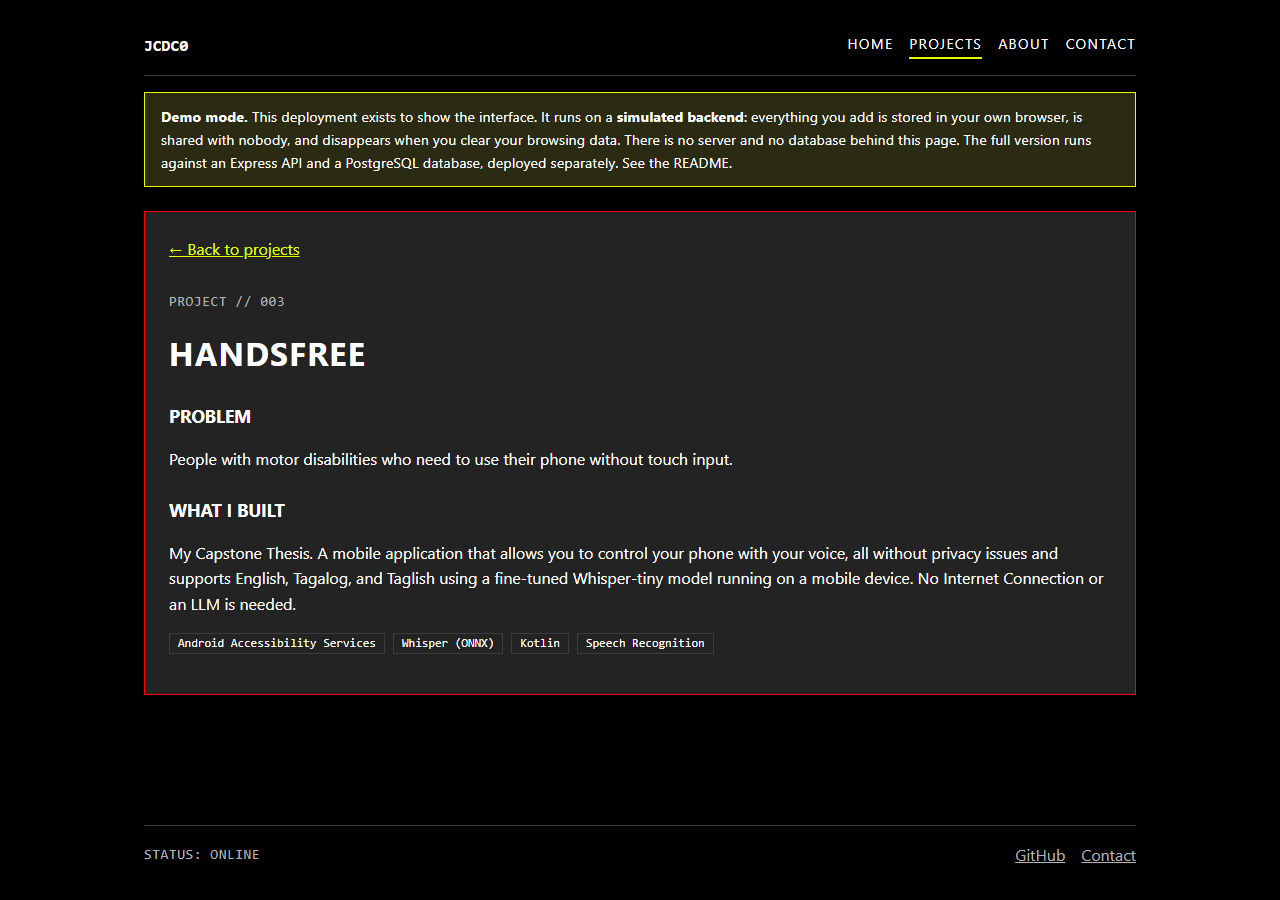
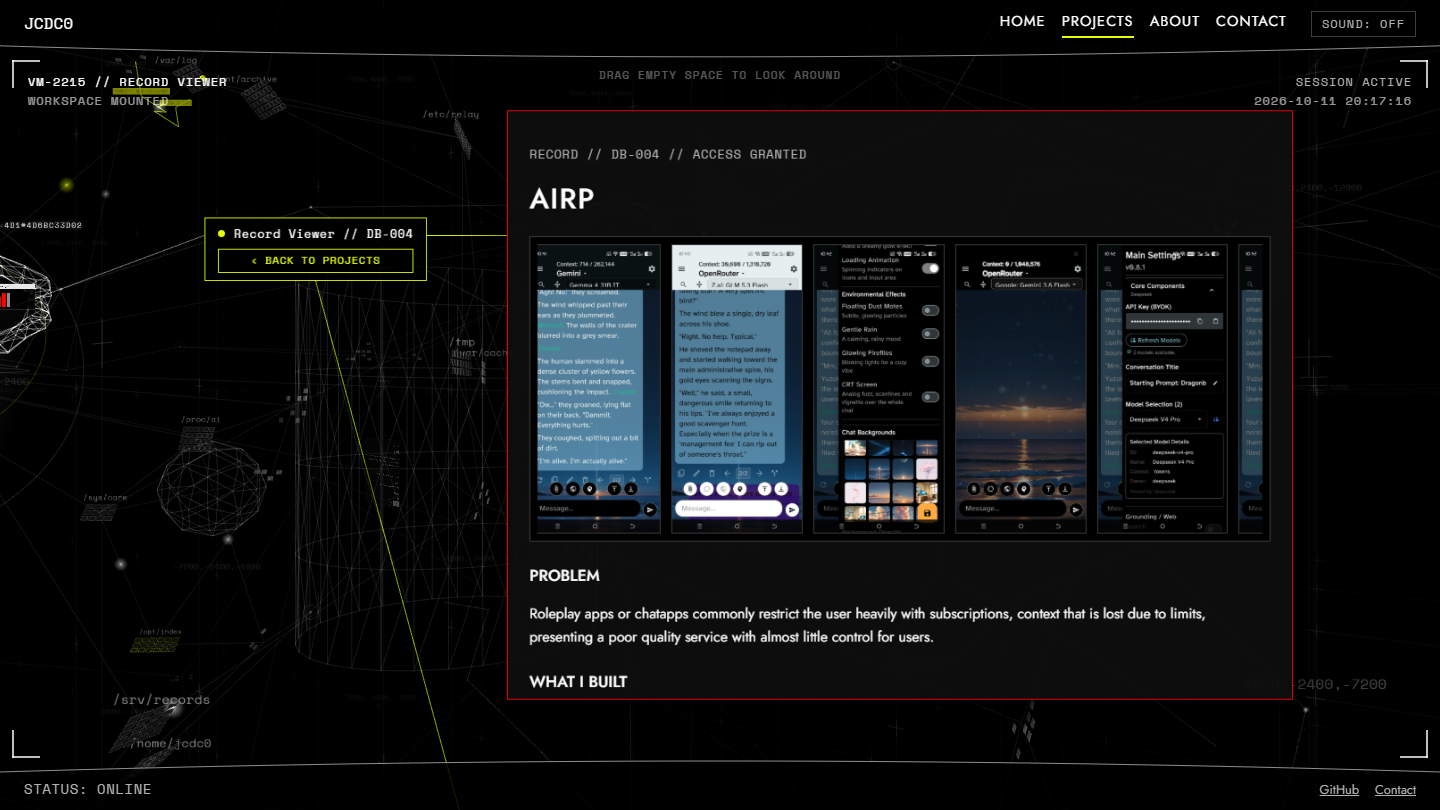
Document the 3D world, galleries, music and proposal

diff --git a/README.md b/README.md
@@ -9,22 +9,26 @@ A personal portfolio for a computer science student, styled after the surveillan
 
 > **Two addresses.** The GitHub Pages site runs in demo mode: its backend is simulated in your browser and nothing is saved to a database, so anyone can open it. The Render address is the real app, where one Express server serves the site and the API and the contact form writes to PostgreSQL. Because it writes to a database, it is behind an HTTP Basic Auth login; the login is shared privately with my instructor. The free host sleeps when idle, so the first load can take up to a minute. See [Demo mode](#demo-mode).
 
-![The projects panel](docs/assets/projects.png)
+![The project records in the 3D world](docs/assets/projects.png)
 
 ## Features and usage
+
+On a computer, the whole site is one 3D space (built with Three.js) styled as a virtual machine. An AI core of linked nodes sits in the middle, surrounded by file clusters, web lines that pulses travel along, and a faint 3D grid with coordinates at its far points. Every page is a panel somewhere in that space, and changing page flies the camera to it. A floating guide tag follows the camera during a flight ("Loading Contact Form..."), then docks beside the panel and plugs a yellow line into it. The first visit in a browser tab starts with a short, skippable `[ CONNECTING... ]` boot screen. You can drag empty space to look around.
+
+On a phone, or in a browser without WebGL, the site uses plain pages instead. With "reduce motion" on, the boot is skipped and the flights become cuts.
 
 | Route | What it shows |
 | --- | --- |
 | `/` | Home panel: the handle, a one-line pitch, and buttons to the projects and the contact form |
-| `/projects` | A full-screen surveillance wall. Each project is a camera feed with its screenshot, and the camera scans from feed to feed on its own. Click a feed to lock on, click again to open it; the arrow keys and the Prev / Next buttons move the camera by hand. On a phone, or with reduced motion on, it falls back to a plain list of cards. It shows a loading line first, or an error with a *Try again* button |
-| `/projects/:id` | One project: the problem, what was built, tech tags, and links to the live site and source code. An unknown id shows "Project not found" |
+| `/projects` | A stack of project record cards (`DB-001` to `DB-006`) under the query `SELECT * FROM projects ORDER BY id;`. The camera scans from card to card on its own; the locked card slides forward with the Prev / Next, Auto-scan and Open record buttons under it. Click a card to lock it, click again to open it; the arrow keys work too. Mobile apps show three phone screenshots side by side. It shows a loading line first, or an error with a *Try again* button. On a phone it is a plain list of cards |
+| `/projects/:id` | One project: the problem, what was built, tech tags, links to the live site and source code, and its screenshots (for the mobile apps, a slowly scrolling reel of phone screens that pauses on hover). In the 3D world, the guide tag carries the **Back to projects** button. An unknown id shows "Project not found" |
 | `/about` | A short bio, skills, strengths and languages, with a link to my resume on Google Drive (the resume is not stored in this repository) |
 | `/contact` | A contact form (name, email, message) that saves to the database. On *Send* it shows "MESSAGE RECEIVED" or the server's error |
-| anything else | A 404 panel with a link back home |
+| anything else | A 404 "Null Sector" panel with a link back home |
 
-The header and footer navigation reach every panel, so no page is a dead end.
+The header and footer navigation reach every panel, so no page is a dead end. **Sound** in the header (off by default) turns on generated interface sounds and a looping background track.
 
-**The main flow:** open the site, click **View projects**, open a project card, read it, click **Back to projects**, then use **Contact** to send a message.
+**The main flow:** open the site, click **View projects**, open a project card, read it, click **Back to projects** on the guide tag, then use **Contact** to send a message.
 
 ### API
 
@@ -47,7 +51,8 @@ A project looks like this:
   "problem": "Arcade players that ... want to practice Tetris ...",
   "summary": "A Tetr.io-inspired stacker ...",
   "tech": ["JavaScript", "HTML Canvas", "Web Audio API", "esbuild"],
-  "image_url": "",
+  "image_url": "shots/uloltrisgame.jpg",
+  "screenshots": [],
   "live_url": "",
   "repo_url": "https://github.com/JCDC0/ulolTris"
 }
@@ -134,7 +139,7 @@ It prints `API listening on http://localhost:3000`. Open http://localhost:3000/r
 npm run dev
 ```
 
-Open http://localhost:5173. There is no yellow demo notice, and **Projects** shows the five projects from the database after a short loading line.
+Open http://localhost:5173. There is no yellow demo notice, and **Projects** shows the six projects from the database after a short loading line.
 
 To build the production version of the client:
 
@@ -158,17 +163,22 @@ Both implementations (`mockApi.js` and `httpApi.js`) export the same three funct
 ```
 client/                 React 18 + Vite front end
   src/api/              index.js picks mockApi.js or httpApi.js; seed.json is the demo data
-  src/components/       Header, Footer, ProjectCard, SurveillanceWall, SoundToggle, DemoNotice
-  src/sound.js          the camera sound effects, generated with the Web Audio API
+  src/components/       Header, Footer, CurveEdge, ProjectCard, ProjectThumbs, Gallery, SoundToggle, DemoNotice
+  src/void/             the 3D world: world.js (scene, camera, guide tag), scenery.js, terminals.js,
+                        VoidSpace.jsx (routes to panels), RecordCard, ProjectStack, BootSequence, VoidHud
+  src/useProjects.js    loads the projects with the loading, empty, error and slow-server states
+  src/sound.js          interface sounds generated with the Web Audio API, and the background track
   src/links.js          the resume (Google Drive) and GitHub links
   src/pages/            one panel per route: Home, Projects, ProjectDetail, About, Contact, NotFound
   src/styles.css        the Machine (dark) and Samaritan (light) colour tokens
+  public/shots/         project screenshots, resized for the web
+  public/audio/         ambient.mp3, the background track
 server/                 Express API
   server.js             routes, input validation and error handling
   projectsRepo.js       SQL for projects (read only)
   messagesRepo.js       SQL for contact messages (insert)
   db/schema.sql         the projects and messages tables, with length limits enforced by the database
-  db/seed.sql           the five projects
+  db/seed.sql           the six projects and the mobile apps' screenshot lists
   db/pool.js, db/run.js the connection pool, and the runner behind npm run db:reset
 docs/assets/            screenshots
 .github/workflows/      builds the client and deploys the demo to GitHub Pages
@@ -185,12 +195,14 @@ docs/assets/            screenshots
 - **Deployed on Render's free plan.** One web service builds the client and runs Express, which serves the site and `/api` from the same address. Build command: `npm --prefix client ci --include=dev && npm --prefix client run build && npm --prefix server ci`; start command: `node server/server.js`. The service sleeps after 15 minutes without visitors.
 - **The login is HTTP Basic Auth, not a full account system.** It is one shared username and password from the host's environment settings. I first planned Cloudflare Zero Trust on my own domain, but its free plan asks for payment details, so I used the instructor's other accepted option.
 - **The database accepts connections from any address.** Neon's free plan has no IP allow-list. It is protected by the password and TLS. The app still connects as the database owner; a separate user that can only read projects and add messages is the next step (the insert already returns only `id` and `created_at` to make that possible).
-- **The *Person of Interest* look is partly done.** The surveillance wall, the camera sounds (off by default; toggle in the header) and the dark Machine colours are in. Not built: the light Samaritan theme toggle, camera travel between the other pages (they are still plain panels), cards with 3D depth, a greyscale background, and trace lines that make the wall look like the Machine searching a directory.
+- **Not built from the proposal:** the light Samaritan theme toggle (its colours exist in `styles.css`, but there is no switch), and tech filter tags on the projects page. The first camera wall (3 October) was replaced by the 3D world on 10-11 October.
+- **The 3D world needs WebGL and a reasonable graphics chip.** It caps the pixel ratio at 1.5, but an old laptop may still run it slowly. Phones always get the plain pages.
+- **Existing databases need the new column.** `schema.sql` adds `screenshots` with `ADD COLUMN IF NOT EXISTS`, so an existing database picks it up on the next `npm run db:reset`.
 - **Fonts:** Jost and Space Mono (both free under the SIL Open Font Licence). The Futura PT and Magda Clean Mono fonts in the original design are commercial, so they are not used.
 
 ## AI use
 
-Built with **Claude Code** (Anthropic), which wrote most of the code: the React client, the Express routes and validation, and the database schema. The login gate was first drafted by GitHub Copilot and then rewritten by Claude Code. The parts I wrote are the project content (`client/src/api/seed.json`), the seed data (`server/db/seed.sql`) and the three SQL queries in `server/projectsRepo.js` and `server/messagesRepo.js`. I also chose the features, the validation rules, the database and the hosting, and I tested every step. The full record, including where the AI got it wrong, is in [AI-USAGE.md](AI-USAGE.md).
+Built with **Claude Code** (Anthropic), which wrote most of the code: the React client, the Express routes and validation, and the database schema. The login gate was first drafted by GitHub Copilot and then rewritten by Claude Code. The background music was generated with Google Flow Music. The parts I wrote are the project content (`client/src/api/seed.json`), the seed rows in `server/db/seed.sql` (the two screenshot `UPDATE` lines at its end were added by Claude Code) and the three SQL queries in `server/projectsRepo.js` and `server/messagesRepo.js`. I also chose the features, the validation rules, the database and the hosting, and I tested every step. The full record, including where the AI got it wrong, is in [AI-USAGE.md](AI-USAGE.md).
 
 ## Author
 

diff --git a/AI-USAGE.md b/AI-USAGE.md
@@ -153,6 +153,48 @@ The AI never committed anything: every commit in this repository was reviewed an
     - I changed my own query to return only `id` and `created_at` (see section 3).
 - **Commits:** https://github.com/JCDC0/Personal-Portfolio-SciFiTerminal/commit/6cefcc8 (serving the site), https://github.com/JCDC0/Personal-Portfolio-SciFiTerminal/commit/4b57565 (my query change) and https://github.com/JCDC0/Personal-Portfolio-SciFiTerminal/commit/fbe9a40 (the gate)
 
+### 2026-10-09 to 2026-10-11 - The site as one 3D virtual machine
+
+- **Tool:** Claude Code
+- **What I asked for:** The whole portfolio as one 3D "virtual machine", like the Machine's view in *Person of Interest*. I wanted an AI core in the middle of a deep, empty space, every page a workspace somewhere in it, and camera flights between pages so the site feels like one seamless screen. I drew a sketch of a line running from the AI, through a "Loading Contact Form..." tag, to the page. I added ideas as I saw each version:
+    - a `[ CONNECTING... ]` boot screen;
+    - database names (`DB-004`) instead of cameras;
+    - an obfuscated "middleman" object with a scrambling `Owner J832=...` label;
+    - garbled noise when things move;
+    - a floating guide tag that follows me and plugs my line into the page;
+    - project cards that stack, with buttons that move with them;
+    - a 3D grid with coordinates;
+    - web lines that pulses travel along.
+- **What it gave back:**
+    - `client/src/void/`: a Three.js scene with:
+        - the AI core and the file clusters;
+        - pop-up terminals that type and sort to-do lists;
+        - neural strands, hidden square clusters and coloured traces;
+        - a field of about 1,500 faint thumbnails and folder icons, some joined by faint straight lines, like my concept image of the Machine's feeds;
+        - the 3D grid.
+    - My pages are the real React panels, placed in 3D with Three.js's CSS3DRenderer, so the forms and links still work.
+    - The guide tag, the camera flights (a curved path that speeds up and slows down), the record cards and the boot sequence.
+    - Fallbacks: phones get the plain pages, and "reduce motion" skips the boot and the flights.
+    - A clean curved line on the header and footer.
+- **What I kept, what I changed, and why:** I kept the structure and kept steering the look:
+    - I asked for the guide tag to follow me instead of staying beside each page.
+    - I asked for separate cards instead of table rows, and for the buttons to move with the cards instead of staying fixed on the screen.
+    - Three times I caught something that looked wrong and had it fixed (section 2, cases 8 to 10).
+    - The old camera wall was deleted once the new world replaced it.
+- **Commit:** https://github.com/JCDC0/Personal-Portfolio-SciFiTerminal/commit/7a1dcc4
+
+### 2026-10-11 - Screenshot galleries for my mobile apps, and music
+
+- **Tools:** Claude Code, and Google Flow Music
+- **What I asked for:** More screenshots for my two mobile apps, HandsFree and AIRP, because one tall phone screenshot was cropped and zoomed inside a wide thumbnail. I also made a background track with Google Flow Music and asked how to add it.
+- **What it gave back:**
+    - A `screenshots` text-array column in `schema.sql`, the screenshot lists for both apps, and the extra screenshots resized for the web.
+    - Cards that show three phone screens side by side.
+    - A reel on the project page with all the phone screens, which scrolls slowly and pauses on hover.
+    - Code that loops my track quietly when Sound is on, and advice to export it as an MP3.
+- **What I kept, what I changed, and why:** The screenshots are my own phone captures. The music is AI-generated: I made it with Google Flow Music, not by hand, so it is credited here and in the README.
+- **Commit:** https://github.com/JCDC0/Personal-Portfolio-SciFiTerminal/commit/7a1dcc4
+
 ## 2. Where the AI got it wrong
 
 ### Case 1 - It planned before reading the template
@@ -204,6 +246,39 @@ The AI never committed anything: every commit in this repository was reviewed an
 - **What I did instead:** I sent the failing log, and it added `--include=dev` to the client install. I changed the build command in Render and redeployed, and the site went live. `NODE_ENV` stays `production` for the running server.
 - **Commit:** none, because the fix was a setting in Render's dashboard, not code. The deploy it fixed is https://github.com/JCDC0/Personal-Portfolio-SciFiTerminal/commit/fbe9a40
 
+### Case 8 - A curved header that cut the text
+
+- **What it gave me:** A "fisheye" curve on the header and footer, made with an SVG displacement filter that shifts the pixels of the whole bar. Its first version also curved the opposite way to the reference image I sent.
+- **What was wrong with it:** The filter moves pixels in whole steps, so the edge rose in jagged one- or two-pixel jumps, and letters looked cut off where a jump passed through them. The AI's own screenshot check did not catch it.
+- **What I did instead:** I asked for one clean curved line. The filter was removed. The curve is now drawn as a vector line in an SVG (`CurveEdge.jsx`) behind the text, so no letters move.
+- **Commit:** https://github.com/JCDC0/Personal-Portfolio-SciFiTerminal/commit/7a1dcc4
+
+### Case 9 - Strands of hair and painfully bright shapes
+
+- **What it gave me:** Neural strands made from randomly wandering paths. The wireframe shapes, the file clusters and the middleman were all drawn at different brightness levels.
+- **What was wrong with it:** The strands curled like hairs instead of looking like lines between points, and some shapes were much brighter than others, which was harsh to look at next to the subtle ones.
+- **What I did instead:** I described what I saw, and it made these changes:
+    - The strands are now straight lines between vertex points.
+    - The coloured traces only turn at 45-degree angles.
+    - The hidden squares sit on a grid.
+    - Every shape was dimmed to the same subtle level.
+    - The middleman, a knotted torus with a solid black core, was still the harshest shape, so it became a faint dodecahedron.
+- **Commit:** https://github.com/JCDC0/Personal-Portfolio-SciFiTerminal/commit/7a1dcc4
+
+### Case 10 - One phone screenshot in a desktop-sized frame
+
+- **What it gave me:** A project gallery that showed one screenshot at a time, in the same wide frame used for desktop screenshots.
+- **What was wrong with it:** A tall phone screenshot in a wide frame is small and leaves most of the frame empty. That looked bad, and it was the reason I asked for more screenshots in the first place.
+- **What I did instead:** I asked for the phone screenshots to be shown together and to scroll slowly. The page now shows every phone screen side by side in a reel that moves on its own.
+- **Commit:** https://github.com/JCDC0/Personal-Portfolio-SciFiTerminal/commit/7a1dcc4
+
+### Case 11 - The music code broke the Sound button
+
+- **What it gave me:** Code to loop my background track under the Sound toggle.
+- **What was wrong with it:** The Sound button looked stuck: clicking it saved the setting but did not change the label or the sound until the page was reloaded. The AI had used two variables (`music` and `fade`) without declaring them. One of its own edits had silently failed, so every click ended in a `music is not defined` error before the button could update.
+- **What I did instead:** I reported that the button seemed always on or always off. It traced the clicks in a test browser, found the error, and added the two missing lines. It then checked on, off, clicking elsewhere, and reloading with Sound saved as on.
+- **Commit:** https://github.com/JCDC0/Personal-Portfolio-SciFiTerminal/commit/7a1dcc4
+
 ## 3. Who wrote what
 
 Most of the code in this project was written by the AI. The parts below are mine. I typed them myself, using my own m5a3 activity as a reference, and fixed them after review.
@@ -218,6 +293,7 @@ Most of the code in this project was written by the AI. The parts below are mine
     - Then one `INSERT INTO projects (...) VALUES` lists the columns once, followed by one row per project, separated by commas. The AI wrote the first row as the pattern to copy, and I typed the other rows myself (later I swapped one project and added another). My first try repeated the `INSERT` line for every row, which is not how a multi-row insert works.
     - The tech list is a PostgreSQL text array, written `ARRAY['React', 'Vite']`. SQL uses single quotes for text, not the double quotes JSON uses, and that was my other mistake.
     - The text itself is my own: the problem each project solves and what I built.
+    - On 11 October I added two `UPDATE` lines at the end of the file. They fill the new `screenshots` column for HandsFree and AIRP. Those two lines are deprecated; my rows above them did not change.
 
 ### Written by me: the three SQL queries (`server/projectsRepo.js`, `server/messagesRepo.js`)
 
@@ -235,7 +311,7 @@ Most of the code in this project was written by the AI. The parts below are mine
 
 - **File:** `client/src/api/seed.json`
 - **Commit:** https://github.com/JCDC0/Personal-Portfolio-SciFiTerminal/commit/b2e9bb9
-- **What it does and why it is built this way:** This is the demo-mode data used by the GitHub Pages site. Each project has the same eight fields as my `projects` table (`id`, `title`, `problem`, `summary`, `tech`, `image_url`, `live_url`, `repo_url`), so the database in week 2 could hold exactly the same data. The problem/summary split is from my proposal: a recruiter should see what problem I solved before what I built.
+- **What it does and why it is built this way:** This is the demo-mode data used by the GitHub Pages site. Each project has the same eight fields as my `projects` table (`id`, `title`, `problem`, `summary`, `tech`, `image_url`, `live_url`, `repo_url`), so the database in week 2 could hold exactly the same data. On 11 October the AI added a ninth field, `screenshots`, to HandsFree and AIRP. The problem/summary split is from my proposal: a recruiter should see what problem I solved before what I built.
 
 ### The AI-written part I understand best: `server/server.js`
 

diff --git a/docs/01-proposal.md b/docs/01-proposal.md
@@ -1,18 +1,58 @@
 # Proposal
 
-The submitted version is your Canvas answer for m8a1. This copy lives in the
-repository so the plan and the code sit next to each other.
+The submitted proposal is my Canvas answer for M6A1. This copy keeps the plan next to the code and records what changed since, last updated 11 October 2026.
 
-Paste or rewrite the proposal here, and **keep it updated** as things change. A
-proposal that still describes a feature you cut in October is worse than no
-proposal.
+## How the idea was chosen
 
-## The parts most likely to drift
+The M6A0 feedback lists Idea 1, "AIRP. Chat Conversation WebApp", as the approved title. In a face-to-face session the instructor advised building the personal portfolio (Idea 3) instead, because AIRP alone was too simple. M6A1 and everything in this repository build the portfolio.
 
-- **Core features.** Move anything you cut to stretch goals rather than deleting
-  it. The record of what you cut, and why, is worth marks.
-- **Where each piece is hosted.** Client, API, database, and the free tier's
-  catch for each. If you change host, note the date and the reason.
-- **The date demo mode goes off.** If that date has passed and it is still on,
-  that is the most important line in this file.
-- **Risks.** Which have shrunk, which grew, which turned out to be nothing.
+## The idea
+
+A personal web portfolio themed after the surveillance interfaces in *Person of Interest*: a virtual machine in a pitch-black void that shows my projects in clean, labelled boxes, with smooth transitions instead of hard page jumps. The theme is only the look. No logos, images or audio from the show are used.
+
+**In one sentence:** a portfolio that lets recruiters hiring junior software engineers judge my problem-solving from real, working projects, and message me directly.
+
+**Who it is for:** recruiters and hiring engineers screening junior applicants. They arrive from my resume, a job application, or my GitHub profile, and want to see quickly what I built, what problem each project solved, and how to reach me.
+
+## Core features: planned and built
+
+| Planned in M6A1 | Status |
+| --- | --- |
+| `/` home screen with my handle, a one-line pitch, and links to the projects and my resume | Built, with a skippable boot screen |
+| `/projects` with every project's problem and tech | Built as a stack of record cards in the 3D world, with a plain card list on phones |
+| `/projects/:id` with screenshots, the problem, the solution, the tech and links | Built; the mobile apps get a scrolling reel of phone screenshots |
+| `/about` with my bio, skills and resume | Built; the resume is a Google Drive link, because it holds personal details that must not be in a public repository |
+| `/contact` form that saves to my database | Built (Express API and PostgreSQL) |
+| Smooth transitions between pages | Built as camera flights through one 3D space (Three.js) |
+| Labelled boxes and bracket outlines like the Machine's view | Built (the HUD corners, record labels and the guide tag) |
+| Sound toggle | Built: generated interface sounds and a background track, off by default |
+| Animations off for "reduce motion" | Built: no boot, and cuts instead of flights |
+
+## Cut or moved to stretch goals
+
+- **The Machine / Samaritan theme toggle.** The light colours exist in `styles.css`, but there is no switch. The time went into the 3D world instead.
+- **Tech filter tags on `/projects`.** With six projects, the card stack is short enough to scan without a filter.
+- **A Resume button in the header.** The resume is one click away from Home and About instead. The header keeps only the navigation and the Sound toggle.
+- **Email in the footer.** Left out on purpose: the contact form replaces a public email address.
+- **Project list changes:** AIRPv2 was replaced by AIRP, and LowBeam was added.
+- **Fonts:** Futura PT and Magda Clean Mono are commercial, so the site uses the free Jost and Space Mono (SIL Open Font Licence).
+
+## Where each piece is hosted
+
+| Piece | Host | The free tier's catch |
+| --- | --- | --- |
+| Demo copy of the site | GitHub Pages | Static only: demo mode, with no database behind it |
+| Real site and API | Render free web service (since 9 October), one Express server for both | Sleeps after 15 minutes idle, so the first load can take up to a minute |
+| Database | Neon free PostgreSQL (since 27 September) | No IP allow-list; protected by the password and TLS |
+| Access gate | HTTP Basic Auth in Express | One shared login. Cloudflare Zero Trust was planned first, but its free plan asks for payment details |
+
+## Demo mode
+
+The GitHub Pages copy stays in demo mode on purpose, so anyone can open it without a login. The real app on Render has run against the real API and database since 9 October 2026.
+
+## Risks
+
+- **Readability with the effects on** (the M6A1 risk). This shrank. Panels sit on solid dark backgrounds above the 3D scene, the scenery was dimmed after review, phones get plain pages, and "reduce motion" turns the animations off.
+- **Performance on weak computers.** This one is new. The 3D world needs WebGL; it caps the pixel ratio, but an old laptop may run it slowly.
+- **A sleeping free server.** This one is also new. The first request after 15 minutes idle is slow, so the projects page shows a "the server may be waking up" message.
+- **Cloudflare needing a card.** This turned out to block the first gate plan, and Basic Auth replaced it.
